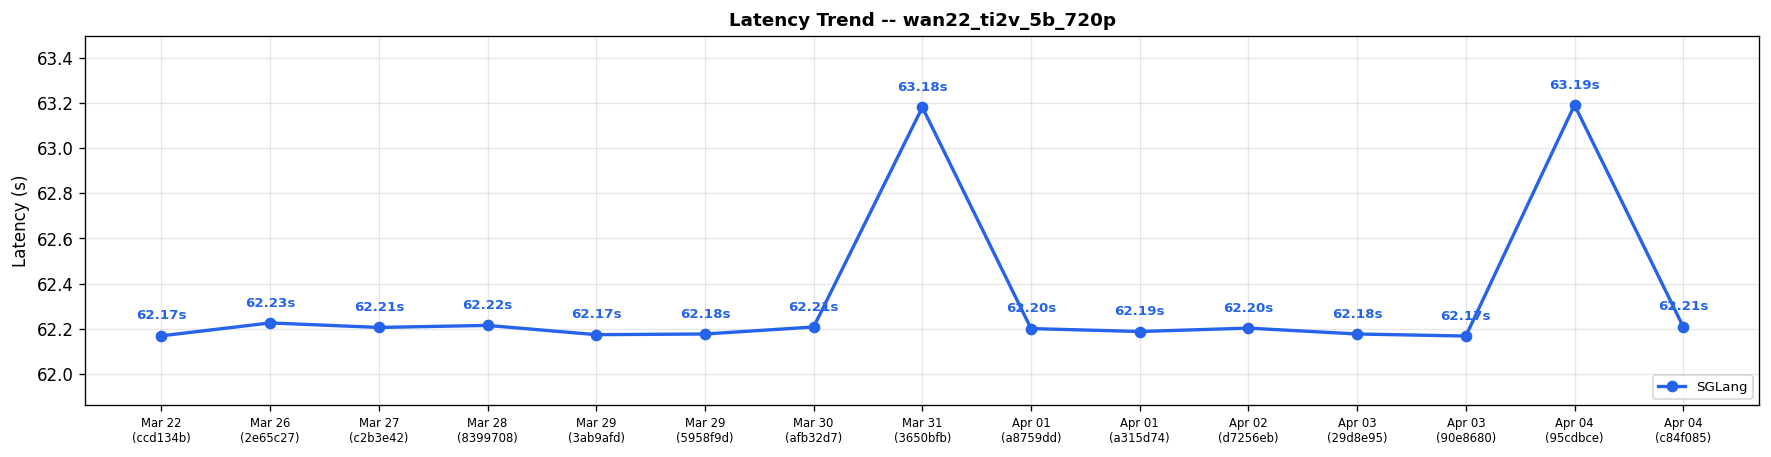
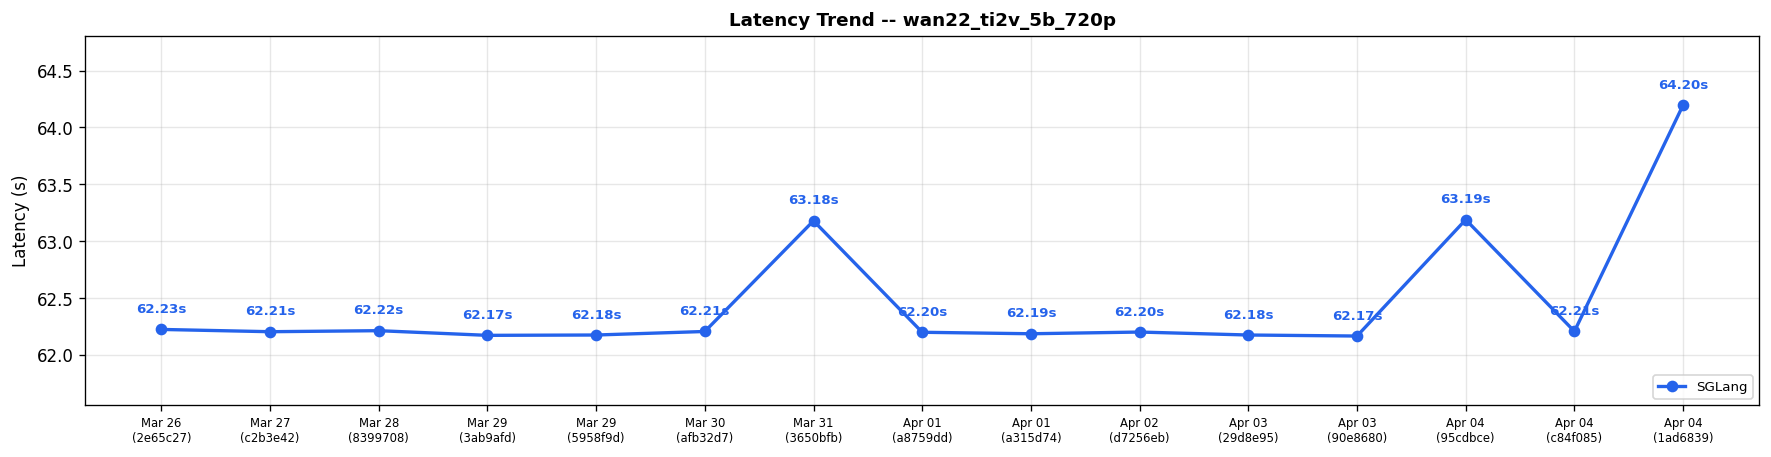
Diffusion comparison results for run 23976148725 (#23)

diff --git a/diffusion-comparisons/dashboard.md b/diffusion-comparisons/dashboard.md
@@ -1,47 +1,45 @@
 # Diffusion Cross-Framework Performance Dashboard
 
-*Generated: Apr 04 | Commit: `c84f085`*
+*Generated: Apr 04 | Commit: `1ad6839`*
 
 > [!WARNING]
 > **Performance Regression Detected**
 >
-> - **wan22_t2v_a14b_720p** (sglang): 16.14s -> 210.88s (+1207.0%)
-> - **wan22_i2v_a14b_720p** (sglang): 21.07s -> 206.55s (+880.4%)
+> - **qwen_image_edit_2511** (sglang): 23.95s -> 29.57s (+23.5%)
 
 
 ## Cross-Framework Performance Comparison
 
 | Model | Risk | sglang (s) |
 |-------|------|---------|
-| FLUX.1-dev | ✅ | **6.86** |
-| FLUX.2-dev | ✅ | **22.87** |
-| Qwen-Image-2512 | ✅ | **13.16** |
-| Qwen-Image-Edit-2511 | ✅ | **23.95** |
-| Z-Image-Turbo | ✅ | **0.93** |
-| Wan2.2-T2V-A14B-Diffusers | ⚠ | **210.88** |
-| Wan2.2-TI2V-5B-Diffusers | ✅ | **62.21** |
-| LTX-2 | ✅ | **14.89** |
-| Wan2.2-I2V-A14B-Diffusers | ⚠ | **206.55** |
+| FLUX.1-dev | ✅ | **6.71** |
+| FLUX.2-dev | ✅ | **22.85** |
+| Qwen-Image-2512 | ✅ | **13.56** |
+| Qwen-Image-Edit-2511 | ⚠ | **29.57** |
+| Z-Image-Turbo | ✅ | **0.89** |
+| Wan2.2-T2V-A14B-Diffusers | ✅ | **16.10** |
+| Wan2.2-TI2V-5B-Diffusers | ✅ | **64.20** |
+| Wan2.2-I2V-A14B-Diffusers | ✅ | **21.07** |
 
 ## SGLang Performance Trend (Last 15 Runs)
 
-| Date | Commit | flux1_dev_t2i_1024 (s) | flux2_dev_t2i_1024 (s) | qwen_image_2512_t2i_1024 (s) | qwen_image_edit_2511 (s) | zimage_turbo_t2i_1024 (s) | wan22_t2v_a14b_720p (s) | wan22_ti2v_5b_720p (s) | ltx2_twostage_t2v (s) | wan22_i2v_a14b_720p (s) | Trend |
-|------|--------|---------|---------|---------|---------|---------|---------|---------|---------|---------|-------|
-| Apr 04 | `c84f085` | 6.86 | 22.87 | 13.16 | 23.95 | 0.93 | 210.88 | 62.21 | 14.89 | 206.55 | :arrow_up:  :left_right_arrow:  :arrow_down:  :arrow_down:  :left_right_arrow:  :arrow_up:  :left_right_arrow:   :arrow_up: |
-| Apr 04 | `95cdbce` | 6.68 | 22.80 | 13.51 | 29.41 | 0.93 | 16.14 | 63.19 | N/A | 21.07 | :left_right_arrow:  :left_right_arrow:  :left_right_arrow:  :left_right_arrow:  :left_right_arrow:  :left_right_arrow:  :left_right_arrow:   :left_right_arrow: |
-| Apr 03 | `90e8680` | 6.72 | 22.89 | 13.57 | 29.56 | 0.93 | 16.09 | 62.17 | N/A | 21.06 | :left_right_arrow:  :left_right_arrow:  :left_right_arrow:  :left_right_arrow:  :left_right_arrow:  :arrow_down:  :left_right_arrow:   :left_right_arrow: |
-| Apr 03 | `29d8e95` | 6.69 | 22.88 | 13.55 | 29.62 | 0.93 | 16.57 | 62.18 | N/A | 21.07 | :left_right_arrow:  :left_right_arrow:  :arrow_up:  :left_right_arrow:  :left_right_arrow:  :arrow_up:  :left_right_arrow:   :arrow_down: |
-| Apr 02 | `d7256eb` | 6.70 | 22.87 | 13.18 | 29.59 | 0.93 | 16.11 | 62.20 | N/A | 22.07 | :left_right_arrow:  :left_right_arrow:  :left_right_arrow:  :left_right_arrow:  :left_right_arrow:  :left_right_arrow:  :left_right_arrow:   :left_right_arrow: |
-| Apr 01 | `a315d74` | 6.70 | 22.89 | 13.30 | 29.70 | 0.92 | 16.20 | 62.19 | N/A | 22.08 | :left_right_arrow:  :left_right_arrow:  :left_right_arrow:  :left_right_arrow:  :left_right_arrow:  :left_right_arrow:  :left_right_arrow:   :arrow_up: |
-| Apr 01 | `a8759dd` | 6.70 | 22.88 | 13.19 | 30.10 | 0.93 | 16.16 | 62.20 | N/A | 21.07 | :left_right_arrow:  :left_right_arrow:  :left_right_arrow:  :left_right_arrow:  :left_right_arrow:  :left_right_arrow:  :left_right_arrow:   :arrow_up: |
-| Mar 31 | `3650bfb` | 6.69 | 22.84 | 13.19 | 29.64 | 0.93 | 16.10 | 63.18 | N/A | 9.03 | :left_right_arrow:  :left_right_arrow:  :left_right_arrow:  :left_right_arrow:  :left_right_arrow:  :left_right_arrow:  :left_right_arrow:   :arrow_down: |
-| Mar 30 | `afb32d7` | 6.68 | 22.79 | 13.16 | 29.44 | 0.92 | 16.08 | 62.21 | N/A | 10.04 | :left_right_arrow:  :left_right_arrow:  :left_right_arrow:  :left_right_arrow:  :left_right_arrow:  :left_right_arrow:  :left_right_arrow:   :left_right_arrow: |
-| Mar 29 | `5958f9d` | 6.70 | 22.86 | 13.19 | 29.74 | 0.93 | 16.31 | 62.18 | N/A | 10.04 | :left_right_arrow:  :left_right_arrow:  :left_right_arrow:  :left_right_arrow:  :left_right_arrow:  :left_right_arrow:  :left_right_arrow:   :arrow_up: |
-| Mar 29 | `3ab9afd` | 6.70 | 22.90 | 13.19 | 29.52 | 0.93 | 16.17 | 62.17 | N/A | 9.04 | :left_right_arrow:  :left_right_arrow:  :arrow_down:  :arrow_down:  :left_right_arrow:  :left_right_arrow:  :left_right_arrow:   :arrow_down: |
-| Mar 28 | `8399708` | 6.68 | 22.76 | 13.71 | 31.67 | 0.93 | 16.27 | 62.22 | N/A | 10.04 | :left_right_arrow:  :left_right_arrow:  :arrow_up:  :arrow_up:  :left_right_arrow:  :left_right_arrow:  :left_right_arrow:   :left_right_arrow: |
-| Mar 27 | `c2b3e42` | 6.70 | 22.94 | 13.18 | 29.64 | 0.93 | 16.11 | 62.21 | N/A | 10.04 | :left_right_arrow:  :left_right_arrow:  :left_right_arrow:  :left_right_arrow:  :left_right_arrow:  :left_right_arrow:  :left_right_arrow:   :left_right_arrow: |
-| Mar 26 | `2e65c27` | 6.77 | 22.75 | 13.31 | 29.84 | 0.94 | 16.06 | 62.23 | N/A | 10.04 | :left_right_arrow:  :left_right_arrow:  :arrow_down:  :left_right_arrow:  :arrow_down:  :left_right_arrow:  :left_right_arrow:   :left_right_arrow: |
-| Mar 22 | `ccd134b` | 6.69 | 22.58 | 13.58 | 29.97 | 1.96 | 16.10 | 62.17 | N/A | 10.04 | -- |
+| Date | Commit | flux1_dev_t2i_1024 (s) | flux2_dev_t2i_1024 (s) | qwen_image_2512_t2i_1024 (s) | qwen_image_edit_2511 (s) | zimage_turbo_t2i_1024 (s) | wan22_t2v_a14b_720p (s) | wan22_ti2v_5b_720p (s) | wan22_i2v_a14b_720p (s) | Trend |
+|------|--------|---------|---------|---------|---------|---------|---------|---------|---------|-------|
+| Apr 04 | `1ad6839` | 6.71 | 22.85 | 13.56 | 29.57 | 0.89 | 16.10 | 64.20 | 21.07 | :arrow_down:  :left_right_arrow:  :arrow_up:  :arrow_up:  :arrow_down:  :arrow_down:  :arrow_up:  :arrow_down: |
+| Apr 04 | `c84f085` | 6.86 | 22.87 | 13.16 | 23.95 | 0.93 | 210.88 | 62.21 | 206.55 | :arrow_up:  :left_right_arrow:  :arrow_down:  :arrow_down:  :left_right_arrow:  :arrow_up:  :left_right_arrow:  :arrow_up: |
+| Apr 04 | `95cdbce` | 6.68 | 22.80 | 13.51 | 29.41 | 0.93 | 16.14 | 63.19 | 21.07 | :left_right_arrow:  :left_right_arrow:  :left_right_arrow:  :left_right_arrow:  :left_right_arrow:  :left_right_arrow:  :left_right_arrow:  :left_right_arrow: |
+| Apr 03 | `90e8680` | 6.72 | 22.89 | 13.57 | 29.56 | 0.93 | 16.09 | 62.17 | 21.06 | :left_right_arrow:  :left_right_arrow:  :left_right_arrow:  :left_right_arrow:  :left_right_arrow:  :arrow_down:  :left_right_arrow:  :left_right_arrow: |
+| Apr 03 | `29d8e95` | 6.69 | 22.88 | 13.55 | 29.62 | 0.93 | 16.57 | 62.18 | 21.07 | :left_right_arrow:  :left_right_arrow:  :arrow_up:  :left_right_arrow:  :left_right_arrow:  :arrow_up:  :left_right_arrow:  :arrow_down: |
+| Apr 02 | `d7256eb` | 6.70 | 22.87 | 13.18 | 29.59 | 0.93 | 16.11 | 62.20 | 22.07 | :left_right_arrow:  :left_right_arrow:  :left_right_arrow:  :left_right_arrow:  :left_right_arrow:  :left_right_arrow:  :left_right_arrow:  :left_right_arrow: |
+| Apr 01 | `a315d74` | 6.70 | 22.89 | 13.30 | 29.70 | 0.92 | 16.20 | 62.19 | 22.08 | :left_right_arrow:  :left_right_arrow:  :left_right_arrow:  :left_right_arrow:  :left_right_arrow:  :left_right_arrow:  :left_right_arrow:  :arrow_up: |
+| Apr 01 | `a8759dd` | 6.70 | 22.88 | 13.19 | 30.10 | 0.93 | 16.16 | 62.20 | 21.07 | :left_right_arrow:  :left_right_arrow:  :left_right_arrow:  :left_right_arrow:  :left_right_arrow:  :left_right_arrow:  :left_right_arrow:  :arrow_up: |
+| Mar 31 | `3650bfb` | 6.69 | 22.84 | 13.19 | 29.64 | 0.93 | 16.10 | 63.18 | 9.03 | :left_right_arrow:  :left_right_arrow:  :left_right_arrow:  :left_right_arrow:  :left_right_arrow:  :left_right_arrow:  :left_right_arrow:  :arrow_down: |
+| Mar 30 | `afb32d7` | 6.68 | 22.79 | 13.16 | 29.44 | 0.92 | 16.08 | 62.21 | 10.04 | :left_right_arrow:  :left_right_arrow:  :left_right_arrow:  :left_right_arrow:  :left_right_arrow:  :left_right_arrow:  :left_right_arrow:  :left_right_arrow: |
+| Mar 29 | `5958f9d` | 6.70 | 22.86 | 13.19 | 29.74 | 0.93 | 16.31 | 62.18 | 10.04 | :left_right_arrow:  :left_right_arrow:  :left_right_arrow:  :left_right_arrow:  :left_right_arrow:  :left_right_arrow:  :left_right_arrow:  :arrow_up: |
+| Mar 29 | `3ab9afd` | 6.70 | 22.90 | 13.19 | 29.52 | 0.93 | 16.17 | 62.17 | 9.04 | :left_right_arrow:  :left_right_arrow:  :arrow_down:  :arrow_down:  :left_right_arrow:  :left_right_arrow:  :left_right_arrow:  :arrow_down: |
+| Mar 28 | `8399708` | 6.68 | 22.76 | 13.71 | 31.67 | 0.93 | 16.27 | 62.22 | 10.04 | :left_right_arrow:  :left_right_arrow:  :arrow_up:  :arrow_up:  :left_right_arrow:  :left_right_arrow:  :left_right_arrow:  :left_right_arrow: |
+| Mar 27 | `c2b3e42` | 6.70 | 22.94 | 13.18 | 29.64 | 0.93 | 16.11 | 62.21 | 10.04 | :left_right_arrow:  :left_right_arrow:  :left_right_arrow:  :left_right_arrow:  :left_right_arrow:  :left_right_arrow:  :left_right_arrow:  :left_right_arrow: |
+| Mar 26 | `2e65c27` | 6.77 | 22.75 | 13.31 | 29.84 | 0.94 | 16.06 | 62.23 | 10.04 | -- |
 
 ### Latency Trend: flux1_dev_t2i_1024
 
@@ -78,11 +76,6 @@
 ![Latency Trend wan22_ti2v_5b_720p](https://raw.githubusercontent.com/sglang-bot/sglang-ci-data/main/diffusion-comparisons/charts/latency_wan22_ti2v_5b_720p.png)
 
 
-### Latency Trend: ltx2_twostage_t2v
-
-![Latency Trend ltx2_twostage_t2v](https://raw.githubusercontent.com/sglang-bot/sglang-ci-data/main/diffusion-comparisons/charts/latency_ltx2_twostage_t2v.png)
-
-
 ### Latency Trend: wan22_i2v_a14b_720p
 
 ![Latency Trend wan22_i2v_a14b_720p](https://raw.githubusercontent.com/sglang-bot/sglang-ci-data/main/diffusion-comparisons/charts/latency_wan22_i2v_a14b_720p.png)
@@ -92,8 +85,7 @@
 > **Action Required — Performance Alert**
 >
 > The following cases need attention:
-> - wan22_t2v_a14b_720p: SGLang regression +1196.3% vs 3-run avg (210.88s vs 16.27s)
-> - wan22_i2v_a14b_720p: SGLang regression +880.5% vs 3-run avg (206.55s vs 21.07s)
+> - qwen_image_edit_2511: SGLang regression +7.0% vs 3-run avg (29.57s vs 27.64s)
 >
 > cc @mickqian @bbuf @yhyang201
 
